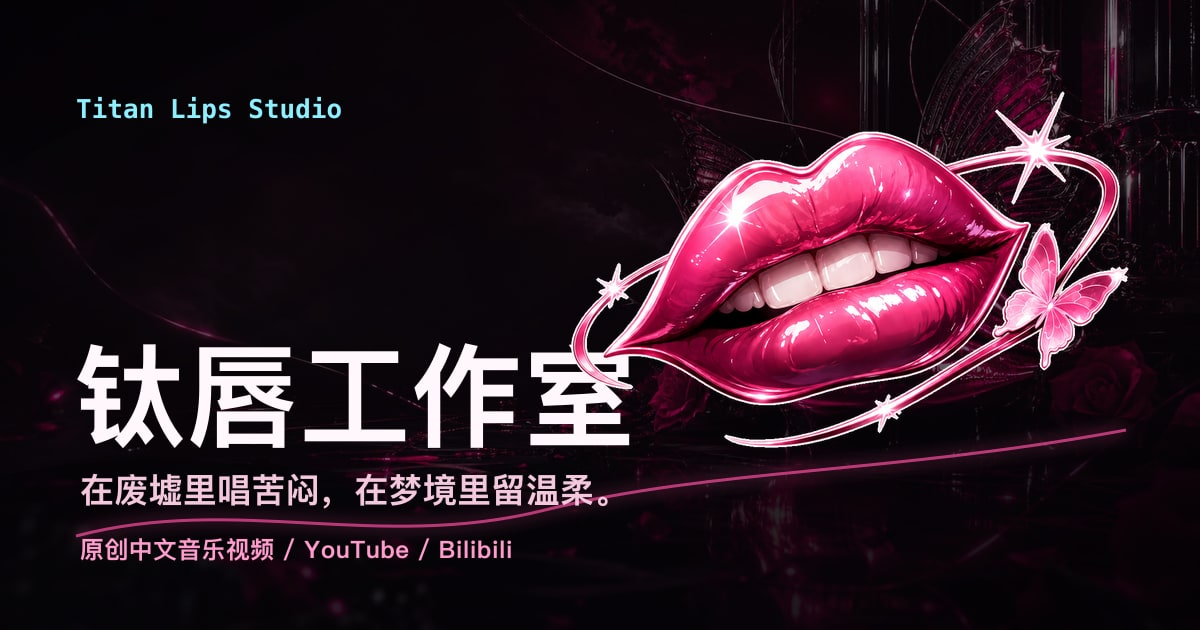
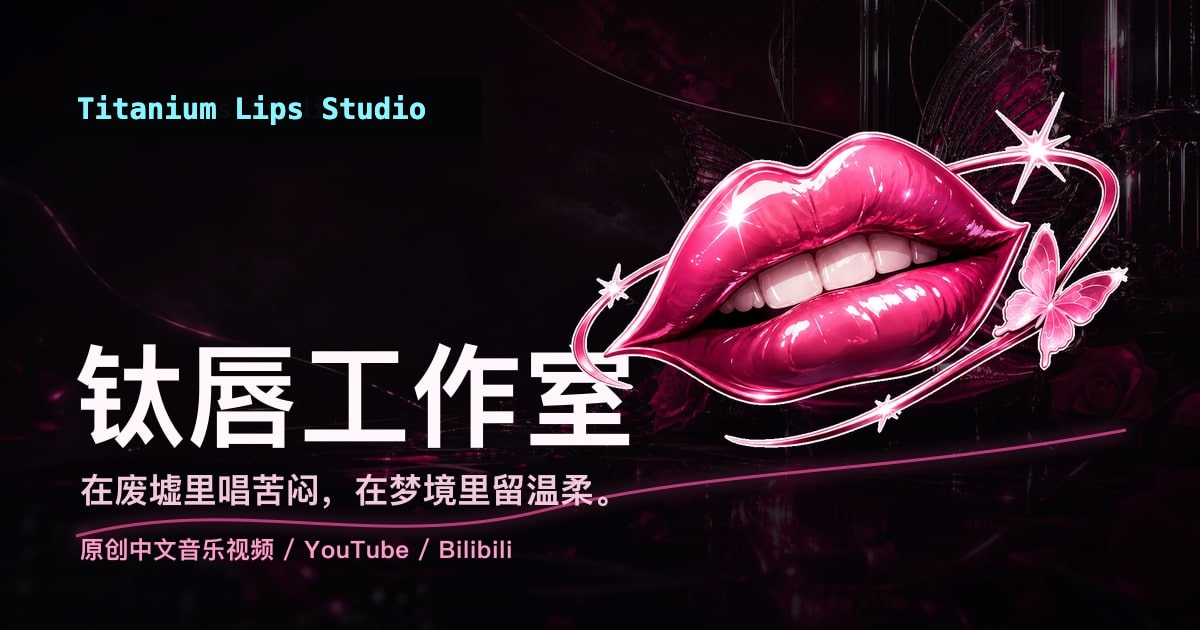
Fix Titanium Lips branding in social preview

Changed region(s): [[0.0617, 0.1508, 0.37, 0.2111]]

diff --git a/site/public/index.html b/site/public/index.html
@@ -12,7 +12,7 @@
     <meta property="og:site_name" content="钛唇工作室">
     <meta property="og:locale" content="zh_CN">
     <meta property="og:url" content="https://titaniumlips.com/">
-    <meta property="og:title" content="钛唇工作室 | Titan Lips Studio">
+    <meta property="og:title" content="钛唇工作室 | Titanium Lips Studio">
     <meta property="og:description" content="在废墟里唱苦闷，在梦境里留温柔。原创中文音乐视频，收纳末日、抑郁与治愈、黑色寓言、人间噪音和反差情歌。">
     <meta property="og:image" content="https://titaniumlips.com/assets/brand/og-image.jpg">
     <meta property="og:image:secure_url" content="https://titaniumlips.com/assets/brand/og-image.jpg">
@@ -21,11 +21,11 @@
     <meta property="og:image:height" content="630">
     <meta property="og:image:alt" content="钛唇工作室，原创中文音乐视频。">
     <meta name="twitter:card" content="summary_large_image">
-    <meta name="twitter:title" content="钛唇工作室 | Titan Lips Studio">
+    <meta name="twitter:title" content="钛唇工作室 | Titanium Lips Studio">
     <meta name="twitter:description" content="在废墟里唱苦闷，在梦境里留温柔。原创中文音乐视频，收听与关注钛唇工作室。">
     <meta name="twitter:image" content="https://titaniumlips.com/assets/brand/og-image.jpg">
     <meta name="twitter:image:alt" content="钛唇工作室，原创中文音乐视频。">
-    <title>钛唇工作室 | Titan Lips Studio</title>
+    <title>钛唇工作室 | Titanium Lips Studio</title>
     <link rel="preload" href="/assets/brand/stage-bg.jpg" as="image">
     <link rel="preload" href="/assets/brand/brand-mark.webp" as="image">
     <link rel="icon" href="/assets/brand/brand-mark.png" type="image/png">
@@ -47,7 +47,7 @@
     <main>
       <section class="hero" aria-labelledby="hero-title">
         <div class="hero-copy">
-          <p class="eyebrow">Titan Lips Studio</p>
+          <p class="eyebrow">Titanium Lips Studio</p>
           <h1 id="hero-title">钛唇工作室</h1>
           <p class="hero-line">在废墟里唱苦闷，在梦境里留温柔。</p>
           <div class="hero-actions">
